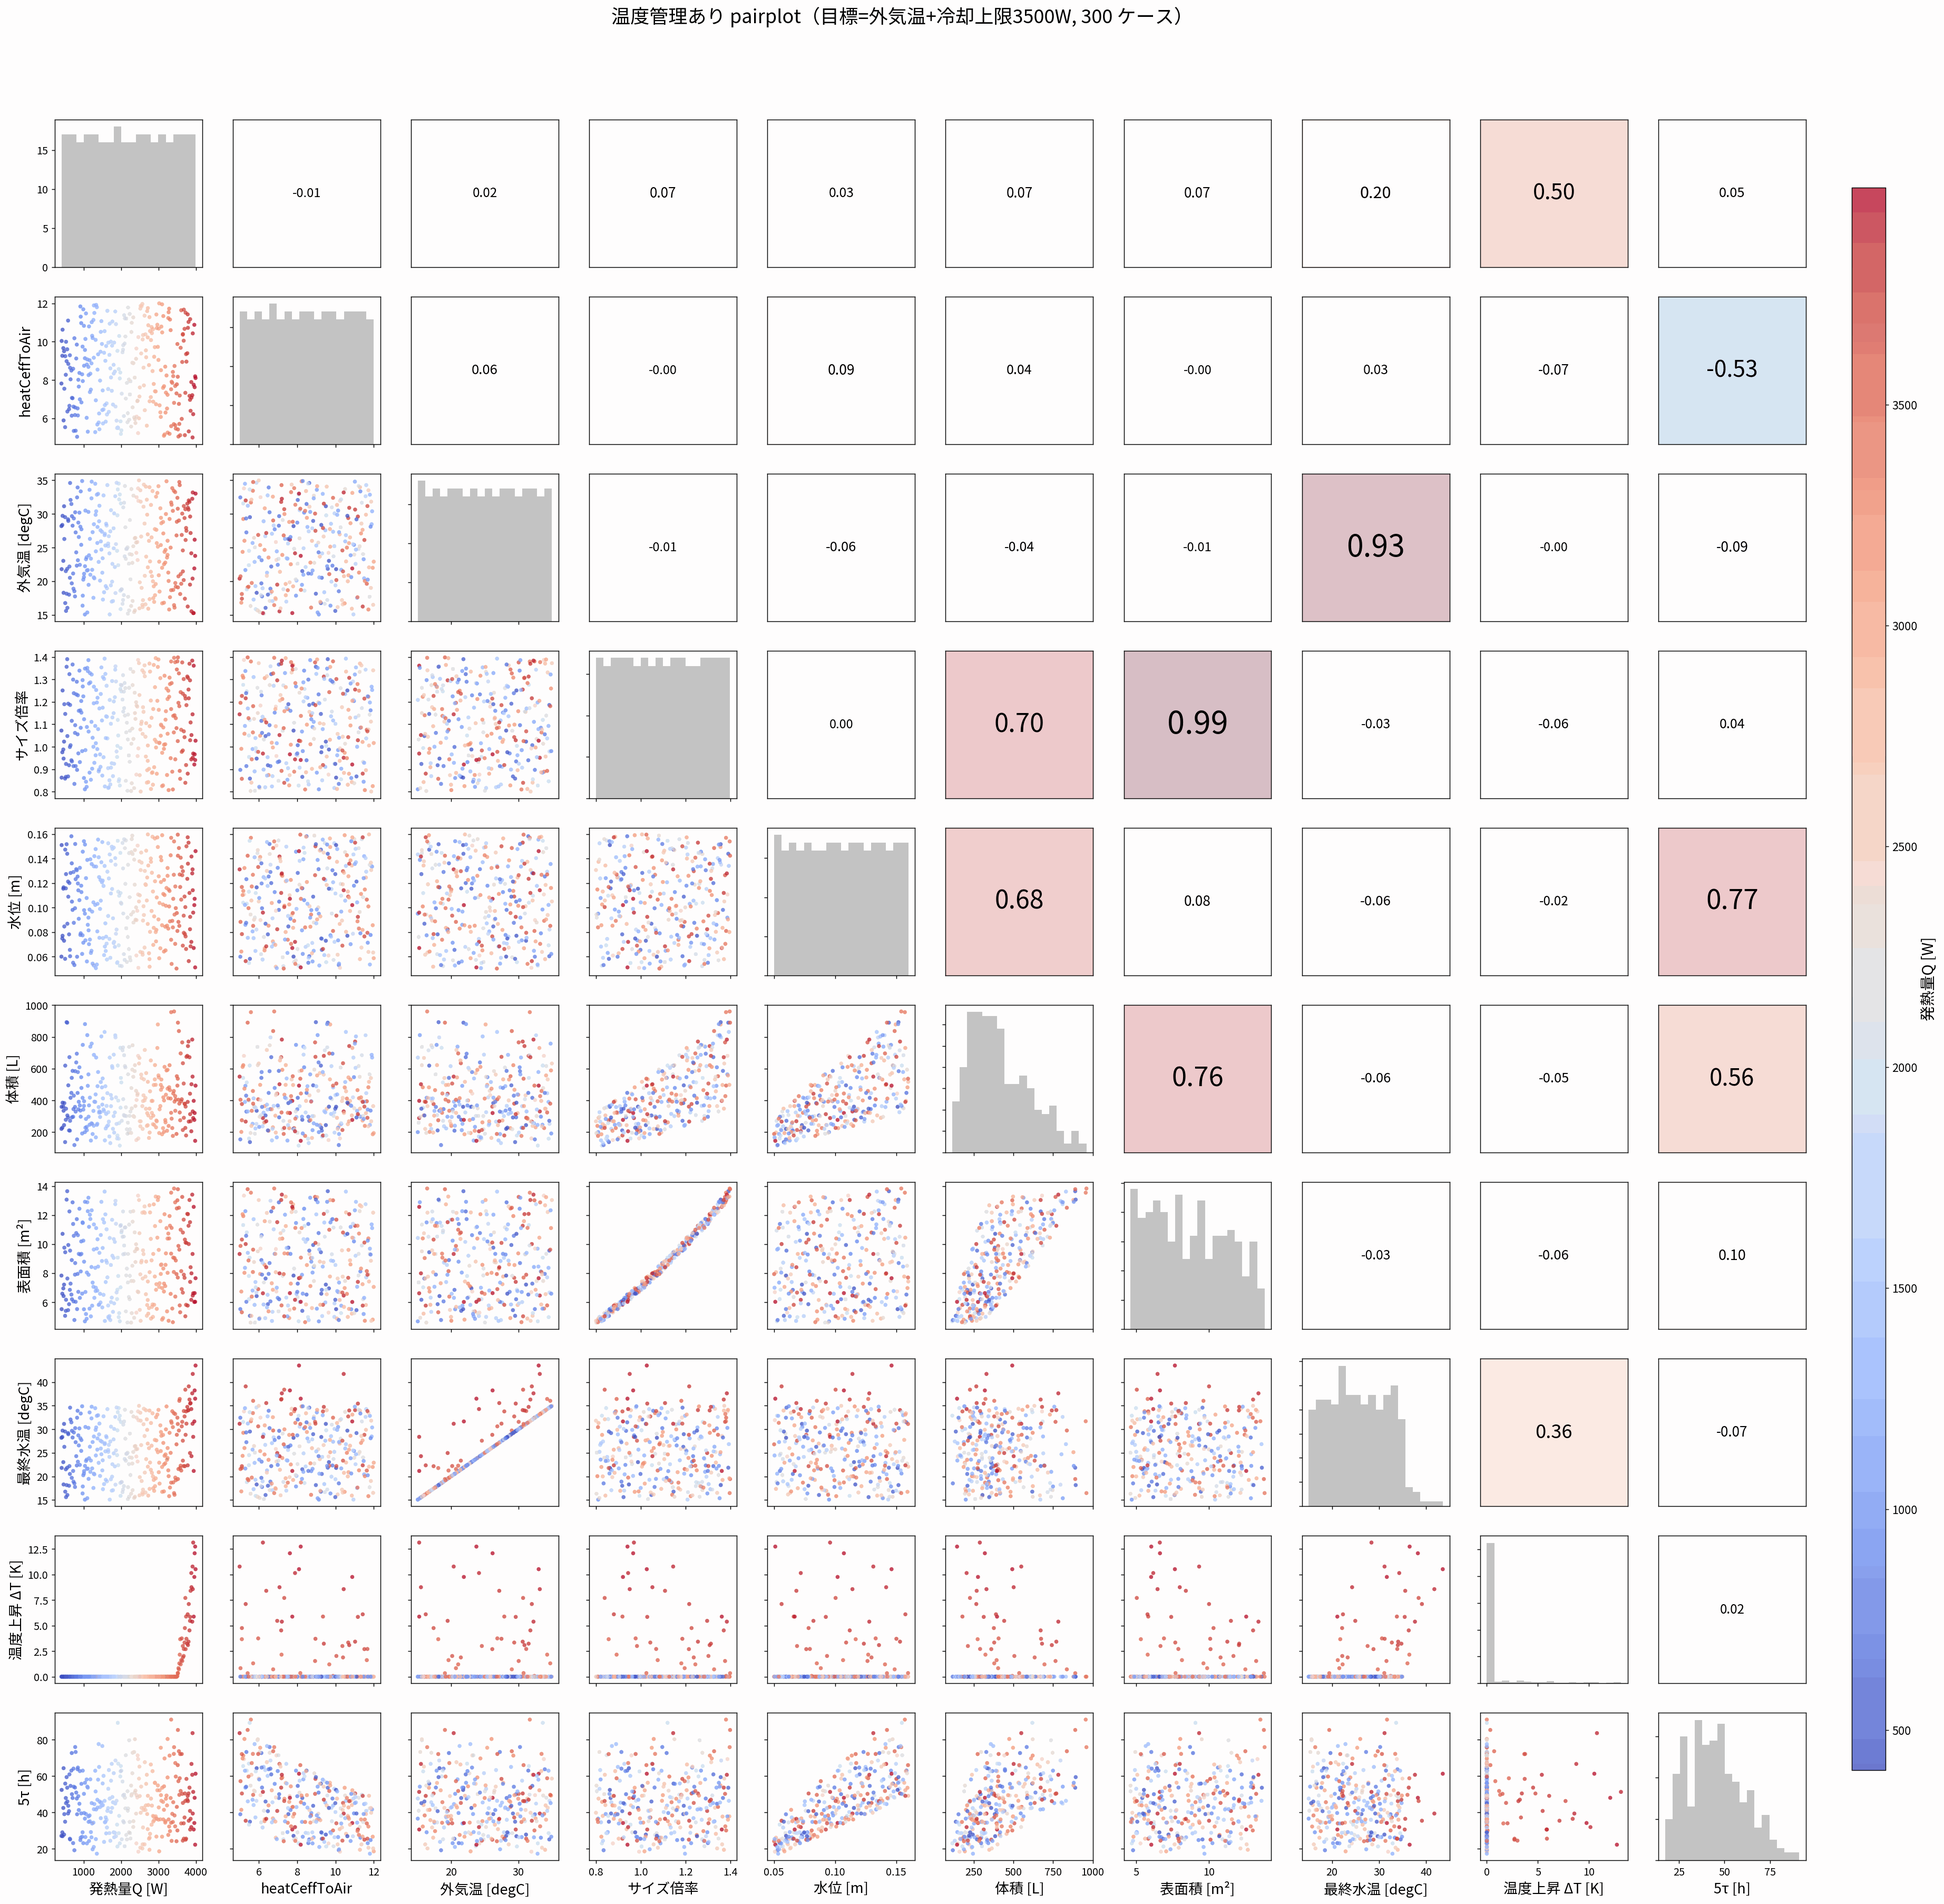
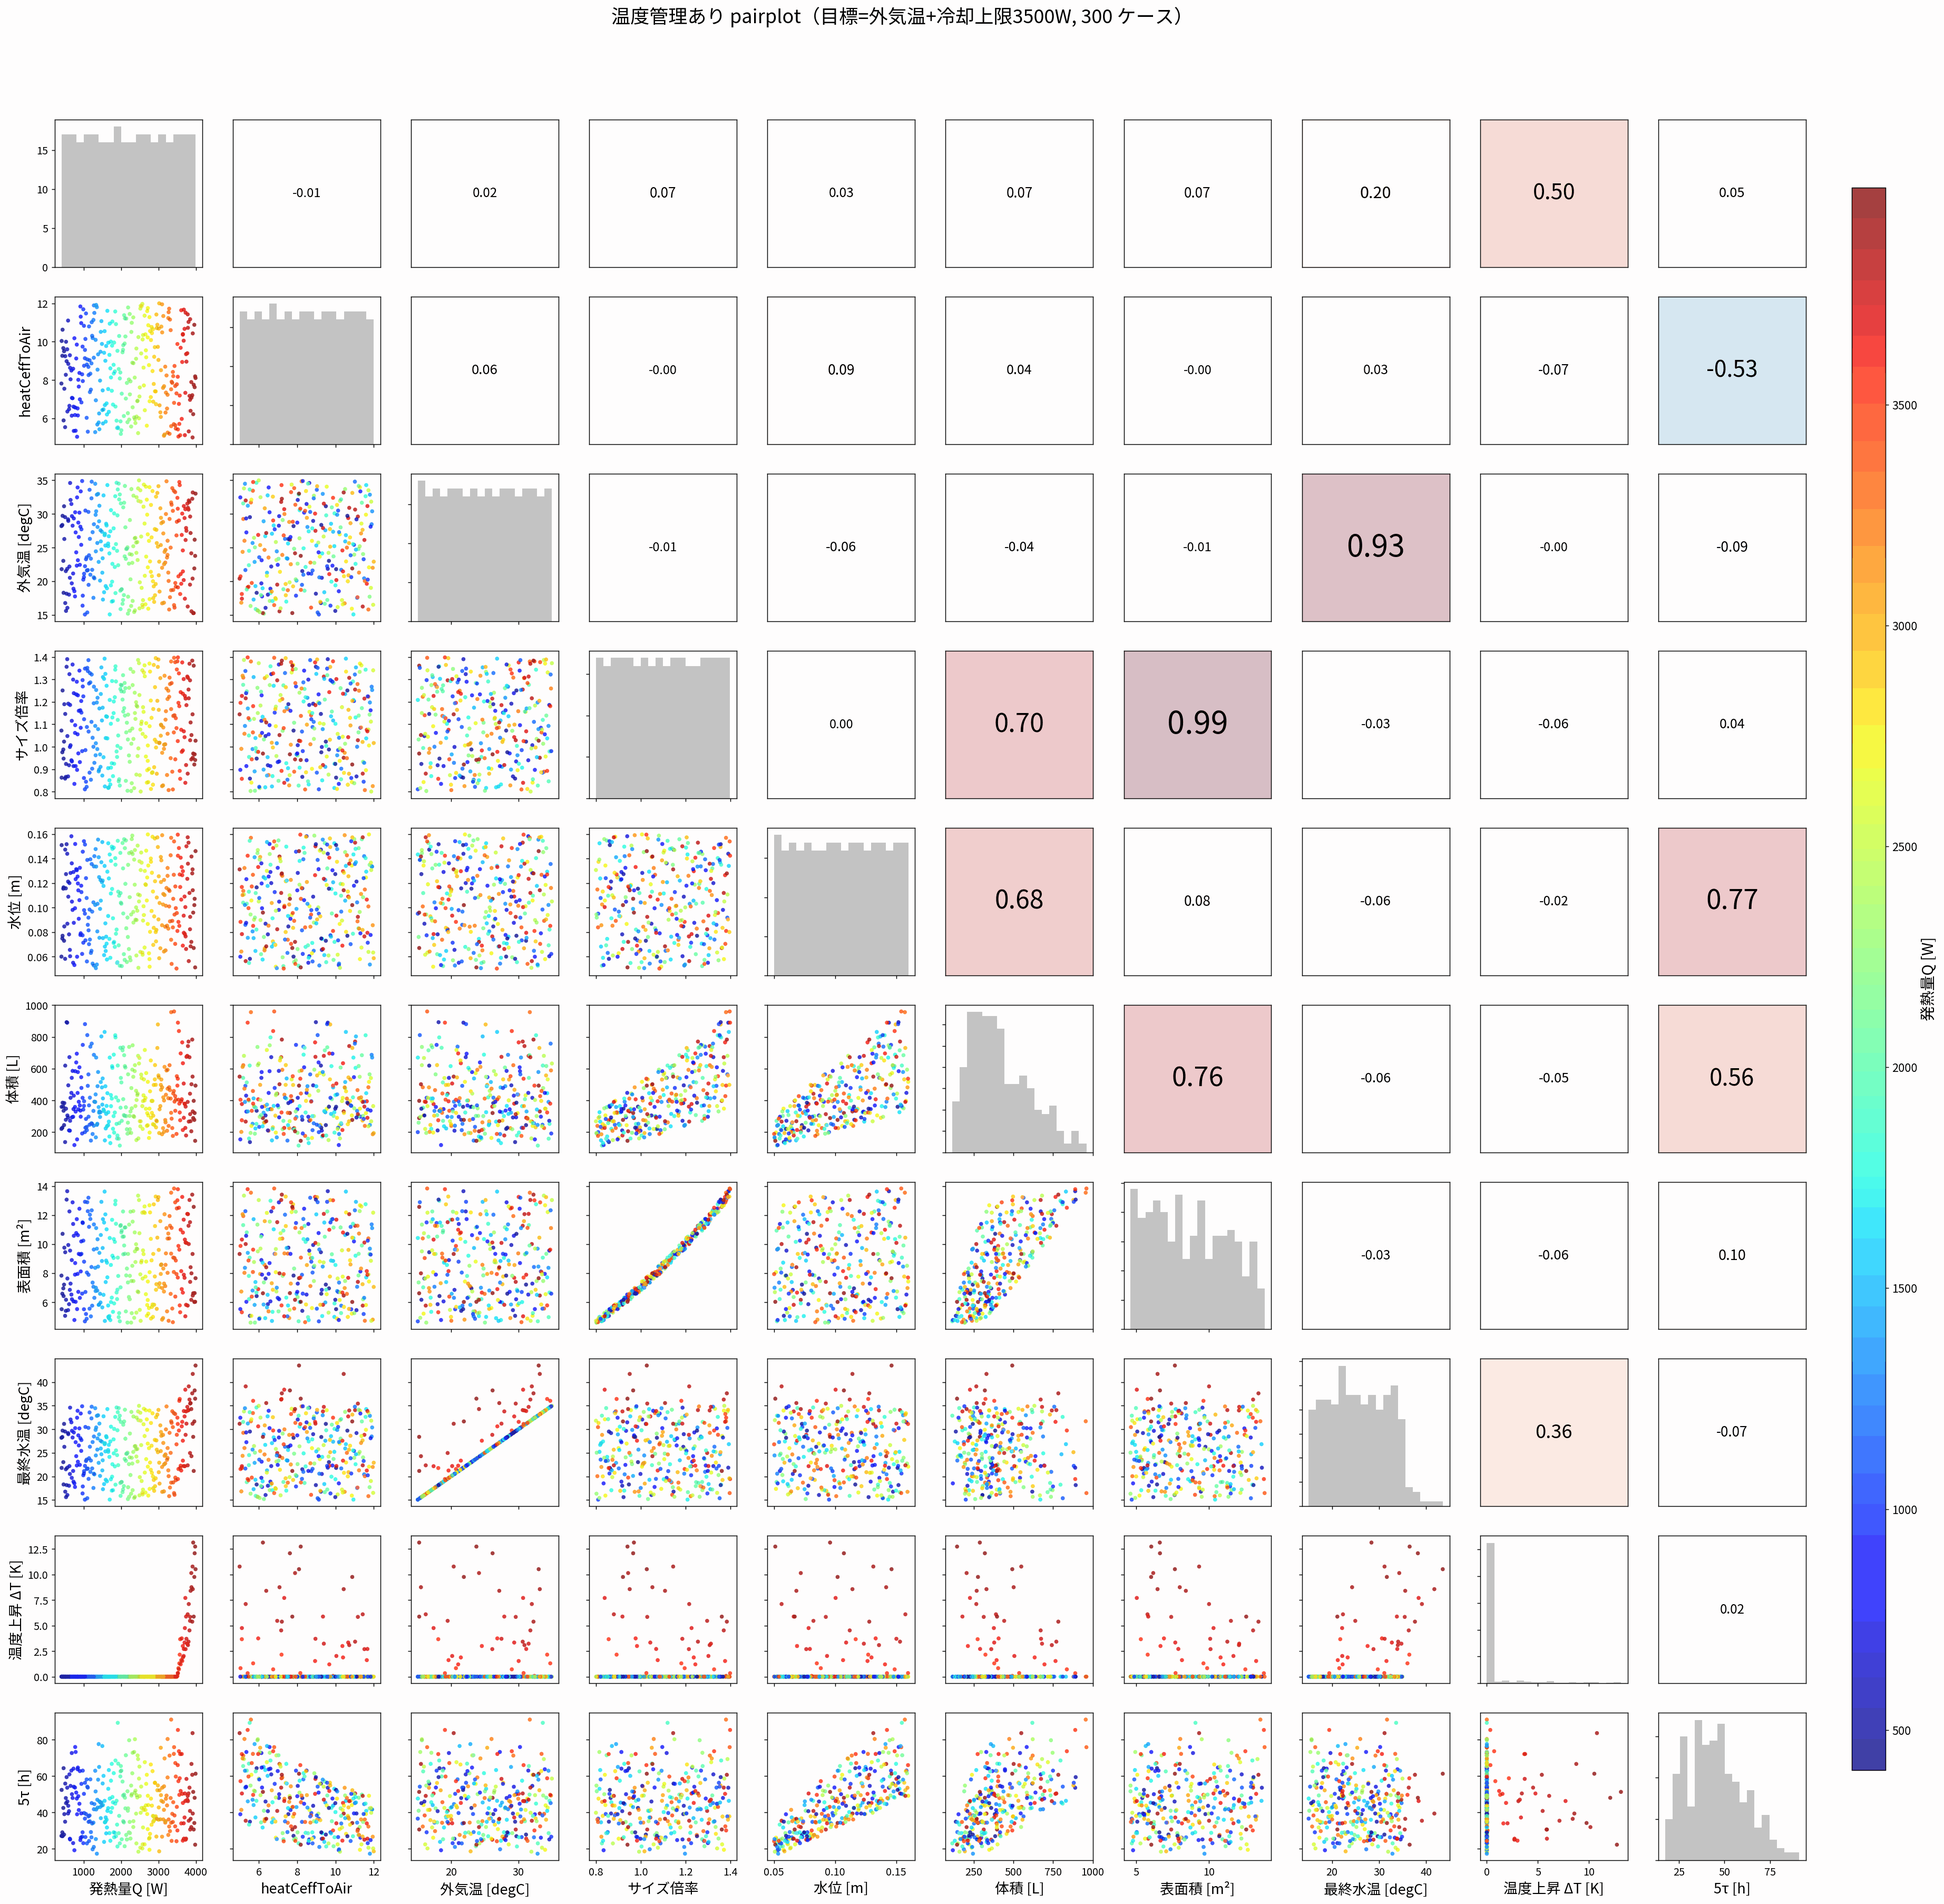
pairplot: 発熱量の色をレインボー(jet, 青->赤)に
Claude-Session: https://claude.ai/code/session_012Bb2Gqoegt25dmMh1N6dBX

diff --git a/003_tank_para/pairplot_control.py b/003_tank_para/pairplot_control.py
@@ -120,7 +120,7 @@ def pairplot1(data, labels, cvals, clabel, path, title):
             if i == j:
                 ax.hist(data[:, i], bins=18, color="0.7", alpha=0.8)
             else:
-                sc = ax.scatter(data[:, j], data[:, i], c=cvals, cmap="coolwarm",
+                sc = ax.scatter(data[:, j], data[:, i], c=cvals, cmap="jet",
                                 s=18, alpha=0.75, edgecolor="none")
             if i == m - 1:
                 ax.set_xlabel(labels[j], fontsize=15)
